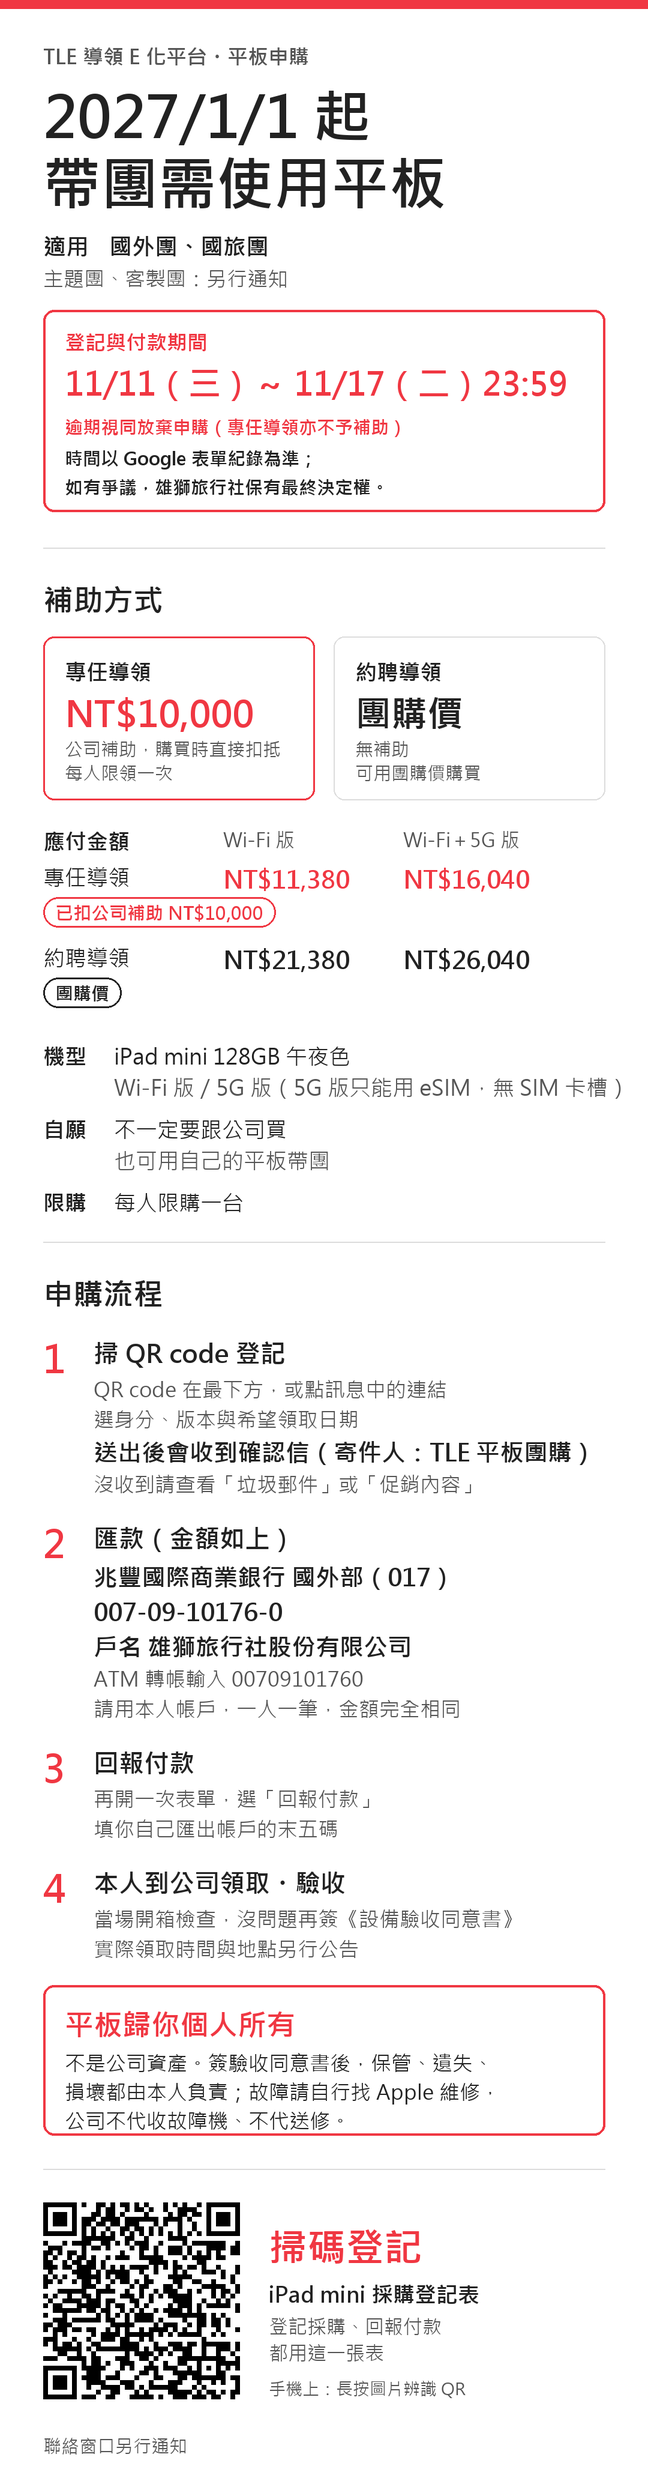
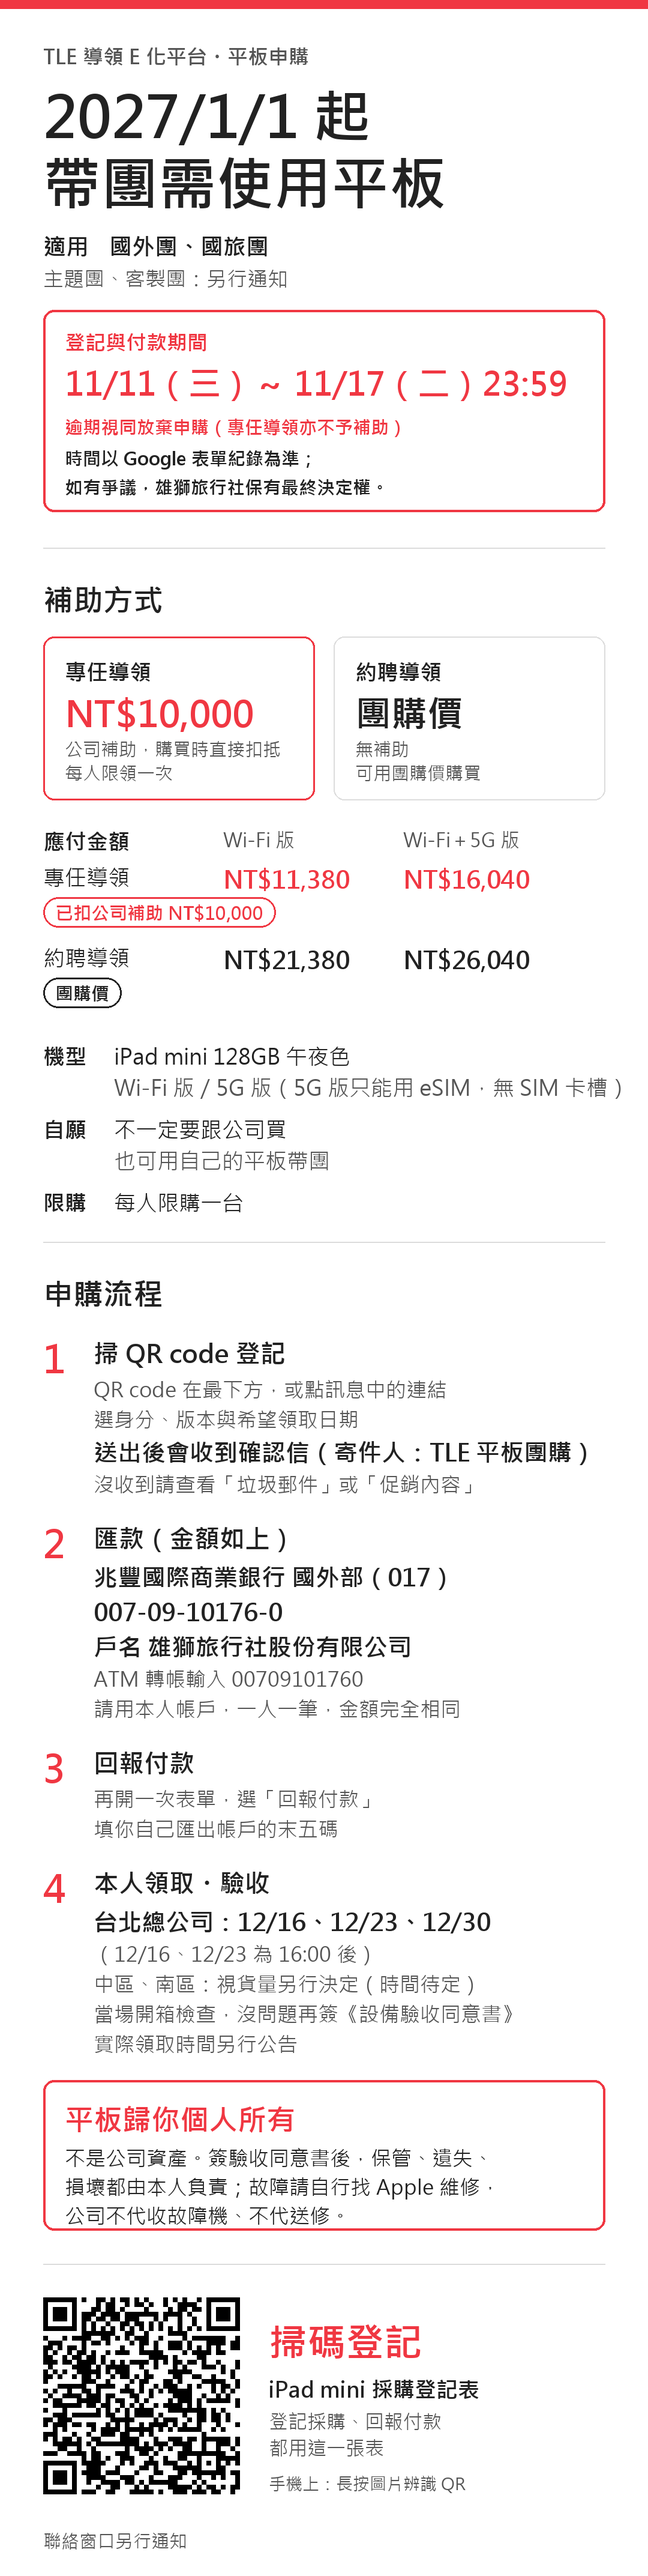
Update notice files 2026-11-12

diff --git a/index.html b/index.html
@@ -168,11 +168,13 @@ https://docs.google.com/forms/d/e/1FAIpQLScBRnBCwPRIjfkRc_nUYg1U1YS1kxVSOd4e8Plc
 回報後可到公告頁輸入末五碼，確認表單已送達：
 https://hoyinzlionwork-cmd.github.io/tablet-notice/
 
-④ 本人到公司領取
+④ 本人領取・驗收
+台北總公司：12/16（三）16:00 後、12/23（三）16:00 後、12/30（三）
+中區、南區：視貨量另行決定（時間待定）
 當場開箱驗收，確認無誤後簽署《設備驗收同意書》。
-・登記時選的希望領取日期僅供統計
+・登記時選的希望領取日期僅供統計，實際領取時間另行公告
 ・當天無法到場者，由導領部代為保管，之後本人到導領部驗收簽署
-・實際領取時間、地點與聯絡窗口另行公告</pre>
+・聯絡窗口另行公告</pre>
     <p class="status" id="notice-status" aria-live="polite"></p>
   </section>
 
@@ -217,12 +219,12 @@ https://hoyinzlionwork-cmd.github.io/tablet-notice/
           <div class="meta">PNG・手機直式，可直接轉傳 LINE</div>
         </div>
         <div class="row">
-          <a class="btn" href="leader-flyer.png?v=202611121038" target="_blank" rel="noopener">開啟圖片</a>
-          <a class="btn" href="leader-flyer.png?v=202611121038" download="導領平板申購說明.png">下載圖片</a>
+          <a class="btn" href="leader-flyer.png?v=202611121040" target="_blank" rel="noopener">開啟圖片</a>
+          <a class="btn" href="leader-flyer.png?v=202611121040" download="導領平板申購說明.png">下載圖片</a>
         </div>
       </div>
     </div>
-        <img class="flyer" src="leader-flyer.png?v=202611121038" alt="導領平板申購說明圖預覽" loading="lazy">
+        <img class="flyer" src="leader-flyer.png?v=202611121040" alt="導領平板申購說明圖預覽" loading="lazy">
   </section>
 </div>
 
